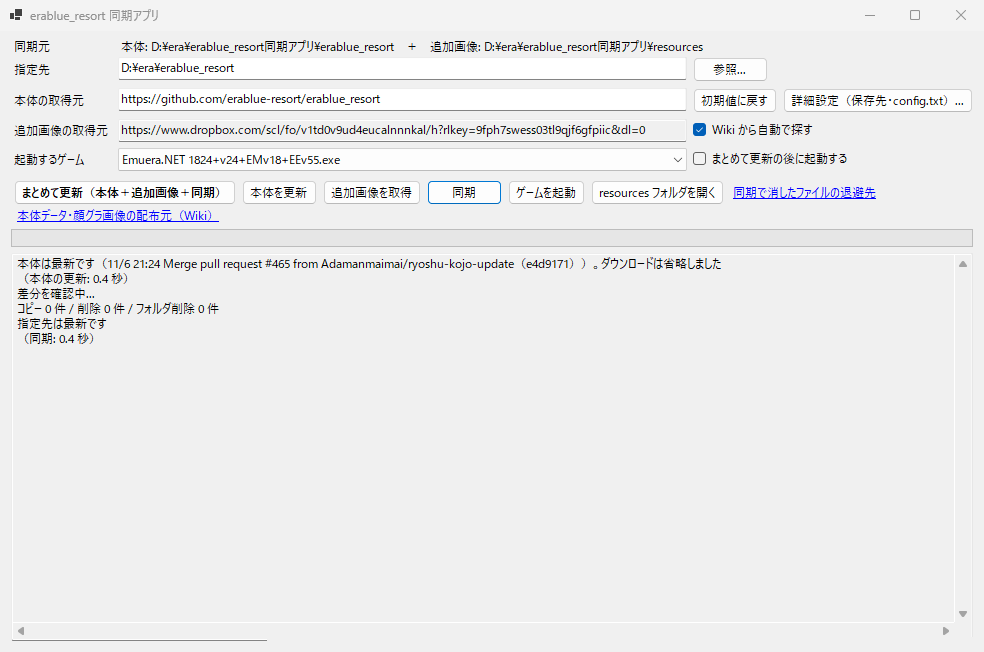
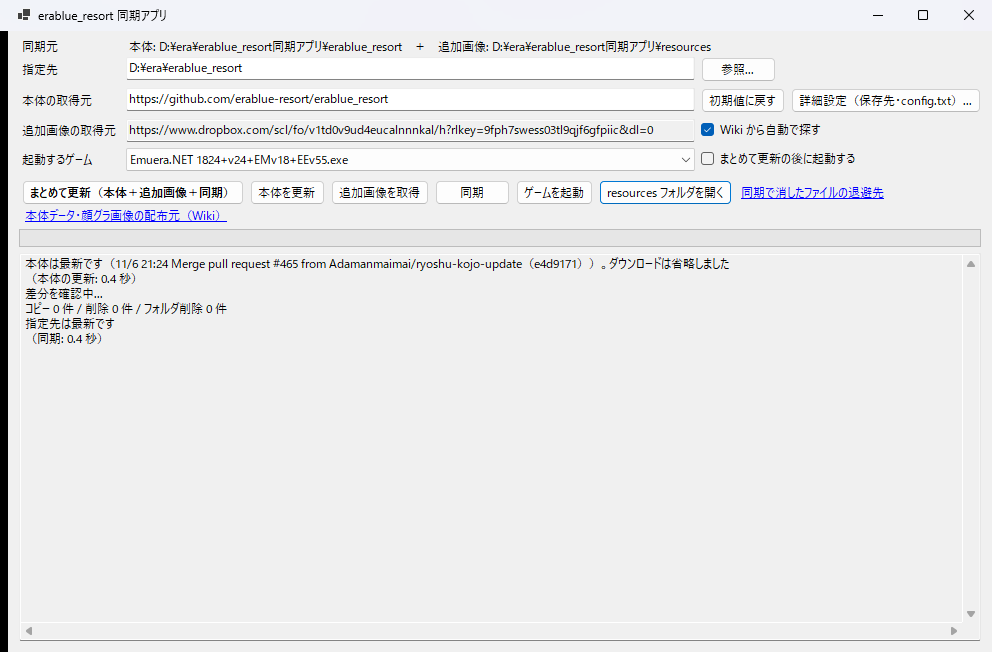
同期の後に「起動するゲーム」の一覧を更新する (v1.0.1) (#1)
初回の同期で exe が入ったときや、版が上がって exe の名前が変わったときに、
アプリを起動し直さないと一覧に反映されず、まとめて更新の後の起動が失敗していた。

Changed region(s): [[0.0, 0.0, 0.9756, 1.0]]

diff --git a/MainForm.cs b/MainForm.cs
@@ -517,6 +517,8 @@ class MainForm : Form
         bool hardLink = _settings.HardLinkResources;
         string trashRoot = TrashRoot;
         var result = await Task.Run(() => FolderSync.Execute(plan, targetRoot, hardLink, trashRoot, progress, Log));
+        // 同期で exe が入った・名前が変わったときに、起動するゲームの一覧を今の指定先に合わせる
+        RefreshGameList();
 
         var summary = $"同期しました（コピー {result.Copied} 件"
             + (result.Linked > 0 ? $" / ハードリンク {result.Linked} 件" : "")
